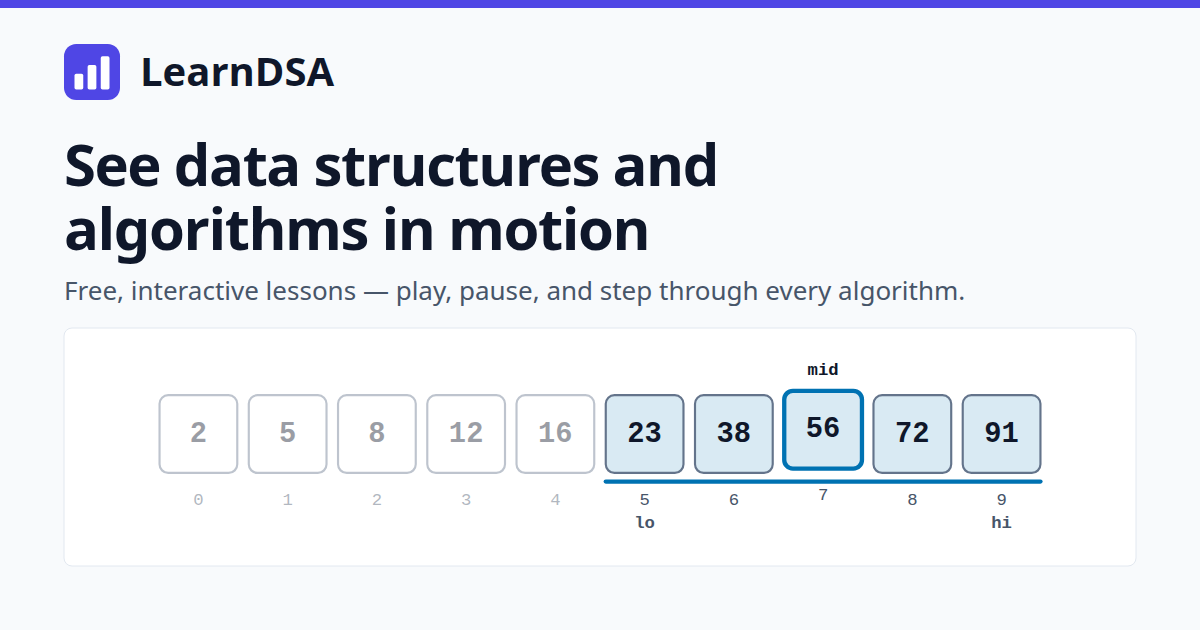
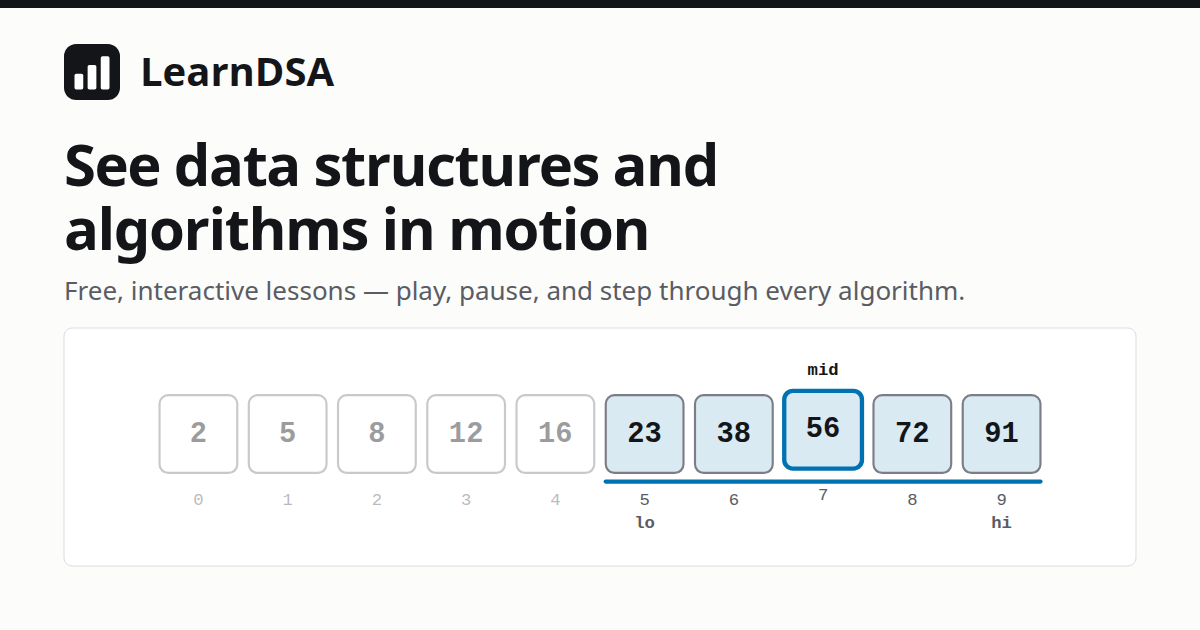
feat(design): repaint the brand mark achromatic
favicon.svg is the only hand-authored brand literal left — build-og.mjs
reads the light palette out of tokens.css at generation time, so the OG
card's chrome was already following Task 1, but it inlines the favicon
VERBATIM, and `npm run og` alone would have left an indigo mark on an
achromatic card. The plate goes to #141519 (--brand's light value, now
byte-identical to --text); the bars stay white at 18.24:1 on it, and
--hl-active is the one colour left on the card, which is the point.

The two PNG derivatives had no regeneration script at all, only a comment
in BaseLayout instructing that they be rasterised from the SVG. That
instruction now has a tool: scripts/build-icons.mjs (`npm run icons`),
built on the same Chromium @playwright/test already ships that build-og.mjs
uses, so still no new dependency. It is not one rasterisation but two,
because the derivatives differ on purpose and the old binaries prove it:
favicon-32 is RGBA with TRANSPARENT rounded corners for the tab strip,
apple-touch-icon is opaque and FULL-BLEED because iOS composites its own
squircle mask. The script squares the plate for the 180 and asserts both
properties back out of each PNG's IHDR.

Found on the way, and fixed: favicon.svg has never been decodable. Its
comment spelled a CSS custom property, and a double hyphen inside an XML
comment is a parse error ("Double hyphen within comment" at line 3), so
every browser silently fell through to the favicon-32.png declared before
[…]

Changed region(s): [[0.0, 0.0, 1.0, 0.0302], [0.0308, 0.0603, 0.1233, 0.181]]

diff --git a/README.md b/README.md
@@ -35,6 +35,7 @@ database or network access at runtime.
 | `npm test`                              | Vitest unit suite (`environment: 'node'`, no DOM, no `localStorage`)                                                                                       |
 | `npm run test:e2e`                      | Playwright + axe; locally it builds and previews first, so it needs :4321 free                                                                             |
 | `npm run og`                            | regenerates the Open Graph card from the real renderer — run by hand, never in the build                                                                   |
+| `npm run icons`                         | re-rasterizes `public/favicon-32.png` and `public/apple-touch-icon.png` from `public/favicon.svg` — run by hand after any edit to the mark                 |
 | `npm run audit:frames`                  | per instrument: how the drawing's viewBox varies across a full trace, and whether step 0 fits its own box — run by hand after any renderer geometry change |
 
 **Definition of Done for any change** (spec §18): `npm run build`, `npm run lint`,
